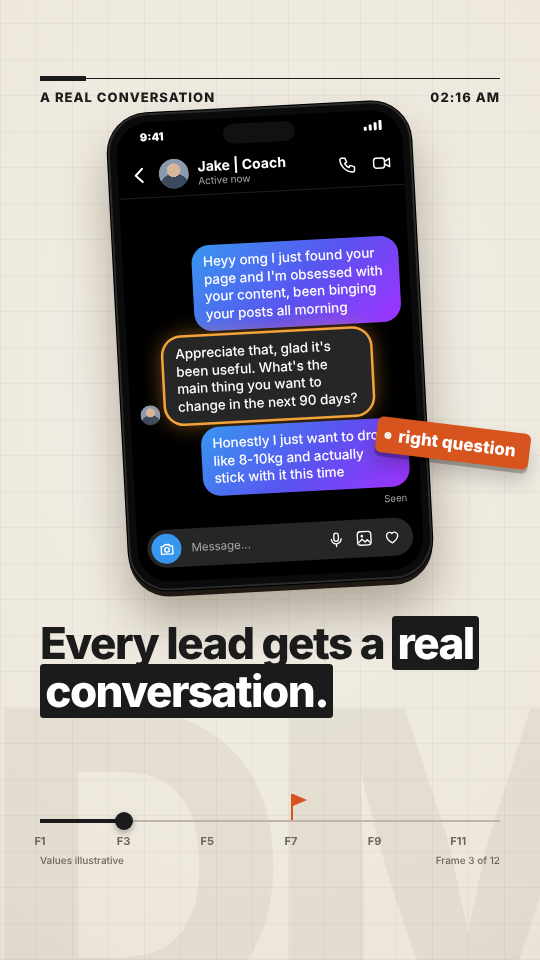
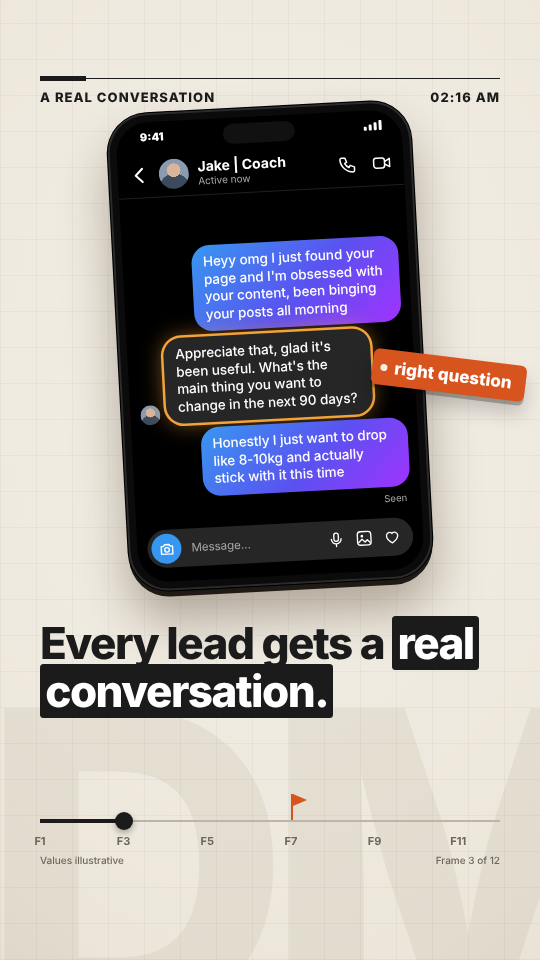
Fix highlighted chat bubble text colour (class collision), move sticker off message
Claude-Session: https://claude.ai/code/session_01LBacd4Ke2z6x4vxDoXBc2Z

Changed region(s): [[0.6815, 0.3438, 1.0, 0.5]]

diff --git a/video-studio/storyboards/paper-data/storyboard.html b/video-studio/storyboards/paper-data/storyboard.html
@@ -79,7 +79,7 @@ mark{background:#1B1B1B;color:#fff;padding:0 .1em;border-radius:.1em}mark.o{back
 .b{max-width:78%;padding:8px 12px;border-radius:18px;font:500 13.5px/1.3 Inter;letter-spacing:-.005em}
 .b.in{background:#262626}
 .b.out{background:linear-gradient(135deg,#3797F0 0%,#5B51F0 55%,#A033FF 100%)}
-.b.hl{box-shadow:0 0 0 2.5px #F2A33A,0 0 22px rgba(242,163,58,.55)}
+.b.hlb{box-shadow:0 0 0 2.5px #F2A33A,0 0 22px rgba(242,163,58,.55)}
 .seen{align-self:flex-end;font:400 9.5px Inter;color:#a8a8a8;margin:1px 4px 0}
 .typing{display:flex;gap:3px;padding:10px 12px}.typing u{width:6px;height:6px;border-radius:50%;background:#8e8e8e}
 .in-bar{margin:6px 10px 14px;height:38px;border-radius:19px;background:#262626;display:flex;align-items:center;gap:10px;padding:0 12px 0 4px;font:400 11.5px Inter;color:#a8a8a8}
@@ -105,9 +105,9 @@ mark{background:#1B1B1B;color:#fff;padding:0 .1em;border-radius:.1em}mark.o{back
 <div class="vis"><div class="ph" style="left:118px;top:-18px;width:304px;height:478px;transform:rotate(-3deg)"><div class="scr">
 <div class="sb"><b>9:41</b><span class="isl"></span><em><s></s><s></s><s></s><s></s></em></div>
 <div class="hd"><svg viewBox="0 0 24 24"><path d="M15 4l-8 8 8 8" fill="none" stroke="#fff" stroke-width="2.4" stroke-linecap="round" stroke-linejoin="round"/></svg><i class="pav"></i><div><b>Jake | Coach</b><small>Active now</small></div><span><svg viewBox="0 0 24 24"><path d="M5 4h4l2 5-2.5 1.5a11 11 0 005 5L15 13l5 2v4a2 2 0 01-2 2A16 16 0 013 6a2 2 0 012-2" fill="none" stroke="#fff" stroke-width="1.8" stroke-linejoin="round"/></svg><svg viewBox="0 0 24 24"><rect x="2.5" y="6" width="13" height="12" rx="3" fill="none" stroke="#fff" stroke-width="1.8"/><path d="M15.5 10.5l6-3.5v10l-6-3.5" fill="none" stroke="#fff" stroke-width="1.8" stroke-linejoin="round"/></svg></span></div>
-<div class="th"><div class="m out" style="--i:0"><div class="b out">Heyy omg I just found your page and I'm obsessed with your content, been binging your posts all morning</div></div><div class="m in" style="--i:1"><i class="av"></i><div class="b in hl">Appreciate that, glad it's been useful. What's the main thing you want to change in the next 90 days?</div></div><div class="m out" style="--i:2"><div class="b out">Honestly I just want to drop like 8-10kg and actually stick with it this time</div></div><div class="seen" style="--i:3">Seen</div></div>
+<div class="th"><div class="m out" style="--i:0"><div class="b out">Heyy omg I just found your page and I'm obsessed with your content, been binging your posts all morning</div></div><div class="m in" style="--i:1"><i class="av"></i><div class="b in hlb">Appreciate that, glad it's been useful. What's the main thing you want to change in the next 90 days?</div></div><div class="m out" style="--i:2"><div class="b out">Honestly I just want to drop like 8-10kg and actually stick with it this time</div></div><div class="seen" style="--i:3">Seen</div></div>
 <div class="in-bar"><i class="cam"><svg viewBox="0 0 24 24"><path d="M4 8h3l2-2.5h6L17 8h3v11H4z" fill="none" stroke="#fff" stroke-width="2" stroke-linejoin="round"/><circle cx="12" cy="13" r="3.2" fill="none" stroke="#fff" stroke-width="2"/></svg></i><span>Message...</span><svg viewBox="0 0 24 24"><rect x="9" y="3" width="6" height="11" rx="3" fill="none" stroke="#fff" stroke-width="1.8"/><path d="M5.5 11a6.5 6.5 0 0013 0M12 17.5V21" fill="none" stroke="#fff" stroke-width="1.8" stroke-linecap="round"/></svg><svg viewBox="0 0 24 24"><rect x="3" y="3" width="18" height="18" rx="4" fill="none" stroke="#fff" stroke-width="1.8"/><circle cx="9" cy="9" r="1.8" fill="#fff"/><path d="M4 18l5-5 4 4 3-3 4 4" fill="none" stroke="#fff" stroke-width="1.8" stroke-linejoin="round"/></svg><svg viewBox="0 0 24 24"><path d="M12 20s-7.5-4.6-7.5-10A4.3 4.3 0 0112 7.4 4.3 4.3 0 0119.5 10c0 5.4-7.5 10-7.5 10z" fill="none" stroke="#fff" stroke-width="1.8" stroke-linejoin="round"/></svg></div>
-</div></div><div class="tag" style="left:376px;top:300px;background:#D8541E;transform:rotate(7deg)">right question</div></div>
+</div></div><div class="tag" style="left:372px;top:232px;background:#D8541E;transform:rotate(7deg)">right question</div></div>
 <div class="cap">Every lead gets a <span class="hl">real conversation.</span></div>
 <div class="scrub"><div class="line"></div><div class="prog" style="width:83.63636363636364px"></div><div class="fl" style="left:290.90909090909093px"></div>
 <div class="knob" style="left:114.63636363636364px"></div><span style="left:40.0px">F1</span><span style="left:123.63636363636364px">F3</span><span style="left:207.27272727272728px">F5</span><span style="left:290.90909090909093px">F7</span><span style="left:374.54545454545456px">F9</span><span style="left:458.1818181818182px">F11</span><small class="l">Values illustrative</small><small class="r">Frame 3 of 12</small></div>
@@ -117,7 +117,7 @@ mark{background:#1B1B1B;color:#fff;padding:0 .1em;border-radius:.1em}mark.o{back
 <div class="vis"><div class="ph" style="left:118px;top:-18px;width:304px;height:478px;transform:rotate(3deg)"><div class="scr">
 <div class="sb"><b>9:41</b><span class="isl"></span><em><s></s><s></s><s></s><s></s></em></div>
 <div class="hd"><svg viewBox="0 0 24 24"><path d="M15 4l-8 8 8 8" fill="none" stroke="#fff" stroke-width="2.4" stroke-linecap="round" stroke-linejoin="round"/></svg><i class="pav"></i><div><b>Jake | Coach</b><small>Active now</small></div><span><svg viewBox="0 0 24 24"><path d="M5 4h4l2 5-2.5 1.5a11 11 0 005 5L15 13l5 2v4a2 2 0 01-2 2A16 16 0 013 6a2 2 0 012-2" fill="none" stroke="#fff" stroke-width="1.8" stroke-linejoin="round"/></svg><svg viewBox="0 0 24 24"><rect x="2.5" y="6" width="13" height="12" rx="3" fill="none" stroke="#fff" stroke-width="1.8"/><path d="M15.5 10.5l6-3.5v10l-6-3.5" fill="none" stroke="#fff" stroke-width="1.8" stroke-linejoin="round"/></svg></span></div>
-<div class="th"><div class="m out" style="--i:0"><div class="b out">Okay real talk - how much does coaching with Jake actually cost, and is there any guarantee?</div></div><div class="m in" style="--i:1"><i class="av sp"></i><div class="b in">It depends on the goal, and Jake covers that on the call so you know exactly what fits you.</div></div><div class="m in" style="--i:2"><i class="av"></i><div class="b in hl">If this is something you're serious about starting now, I can help you find a time to talk</div></div></div>
+<div class="th"><div class="m out" style="--i:0"><div class="b out">Okay real talk - how much does coaching with Jake actually cost, and is there any guarantee?</div></div><div class="m in" style="--i:1"><i class="av sp"></i><div class="b in">It depends on the goal, and Jake covers that on the call so you know exactly what fits you.</div></div><div class="m in" style="--i:2"><i class="av"></i><div class="b in hlb">If this is something you're serious about starting now, I can help you find a time to talk</div></div></div>
 <div class="in-bar"><i class="cam"><svg viewBox="0 0 24 24"><path d="M4 8h3l2-2.5h6L17 8h3v11H4z" fill="none" stroke="#fff" stroke-width="2" stroke-linejoin="round"/><circle cx="12" cy="13" r="3.2" fill="none" stroke="#fff" stroke-width="2"/></svg></i><span>Message...</span><svg viewBox="0 0 24 24"><rect x="9" y="3" width="6" height="11" rx="3" fill="none" stroke="#fff" stroke-width="1.8"/><path d="M5.5 11a6.5 6.5 0 0013 0M12 17.5V21" fill="none" stroke="#fff" stroke-width="1.8" stroke-linecap="round"/></svg><svg viewBox="0 0 24 24"><rect x="3" y="3" width="18" height="18" rx="4" fill="none" stroke="#fff" stroke-width="1.8"/><circle cx="9" cy="9" r="1.8" fill="#fff"/><path d="M4 18l5-5 4 4 3-3 4 4" fill="none" stroke="#fff" stroke-width="1.8" stroke-linejoin="round"/></svg><svg viewBox="0 0 24 24"><path d="M12 20s-7.5-4.6-7.5-10A4.3 4.3 0 0112 7.4 4.3 4.3 0 0119.5 10c0 5.4-7.5 10-7.5 10z" fill="none" stroke="#fff" stroke-width="1.8" stroke-linejoin="round"/></svg></div>
 </div></div><div class="tag" style="left:14px;top:150px;background:#1B1B1B;transform:rotate(-6deg)">no dodge</div><div class="tag" style="left:300px;top:440px;background:#D8541E;transform:rotate(4deg)">straight to the call</div></div>
 <div class="cap">The cost question? <span class="hl">Handled.</span></div>
@@ -136,7 +136,7 @@ mark{background:#1B1B1B;color:#fff;padding:0 .1em;border-radius:.1em}mark.o{back
 <div class="vis"><div class="ph" style="left:118px;top:-18px;width:304px;height:478px;transform:rotate(-2deg)"><div class="scr">
 <div class="sb"><b>9:41</b><span class="isl"></span><em><s></s><s></s><s></s><s></s></em></div>
 <div class="hd"><svg viewBox="0 0 24 24"><path d="M15 4l-8 8 8 8" fill="none" stroke="#fff" stroke-width="2.4" stroke-linecap="round" stroke-linejoin="round"/></svg><i class="pav"></i><div><b>Jake | Coach</b><small>Active now</small></div><span><svg viewBox="0 0 24 24"><path d="M5 4h4l2 5-2.5 1.5a11 11 0 005 5L15 13l5 2v4a2 2 0 01-2 2A16 16 0 013 6a2 2 0 012-2" fill="none" stroke="#fff" stroke-width="1.8" stroke-linejoin="round"/></svg><svg viewBox="0 0 24 24"><rect x="2.5" y="6" width="13" height="12" rx="3" fill="none" stroke="#fff" stroke-width="1.8"/><path d="M15.5 10.5l6-3.5v10l-6-3.5" fill="none" stroke="#fff" stroke-width="1.8" stroke-linejoin="round"/></svg></span></div>
-<div class="th"><div class="m out" style="--i:0"><div class="b out">Okay fair enough, yeah let's find a time, I'm in</div></div><div class="m in" style="--i:1"><i class="av"></i><div class="b in">Quick one, what time zone are you in?</div></div><div class="m out" style="--i:2"><div class="b out">I'm in Switzerland, so Central European time (CET)</div></div><div class="m in" style="--i:3"><i class="av"></i><div class="b in hl">Got it. I've got Monday, October 26 at 1:00 PM, 3:00 PM, or 6:00 PM Swiss time, which works best?</div></div><div class="m out" style="--i:4"><div class="b out">3:00 PM works for me</div></div><div class="seen" style="--i:5">Seen</div></div>
+<div class="th"><div class="m out" style="--i:0"><div class="b out">Okay fair enough, yeah let's find a time, I'm in</div></div><div class="m in" style="--i:1"><i class="av"></i><div class="b in">Quick one, what time zone are you in?</div></div><div class="m out" style="--i:2"><div class="b out">I'm in Switzerland, so Central European time (CET)</div></div><div class="m in" style="--i:3"><i class="av"></i><div class="b in hlb">Got it. I've got Monday, October 26 at 1:00 PM, 3:00 PM, or 6:00 PM Swiss time, which works best?</div></div><div class="m out" style="--i:4"><div class="b out">3:00 PM works for me</div></div><div class="seen" style="--i:5">Seen</div></div>
 <div class="in-bar"><i class="cam"><svg viewBox="0 0 24 24"><path d="M4 8h3l2-2.5h6L17 8h3v11H4z" fill="none" stroke="#fff" stroke-width="2" stroke-linejoin="round"/><circle cx="12" cy="13" r="3.2" fill="none" stroke="#fff" stroke-width="2"/></svg></i><span>Message...</span><svg viewBox="0 0 24 24"><rect x="9" y="3" width="6" height="11" rx="3" fill="none" stroke="#fff" stroke-width="1.8"/><path d="M5.5 11a6.5 6.5 0 0013 0M12 17.5V21" fill="none" stroke="#fff" stroke-width="1.8" stroke-linecap="round"/></svg><svg viewBox="0 0 24 24"><rect x="3" y="3" width="18" height="18" rx="4" fill="none" stroke="#fff" stroke-width="1.8"/><circle cx="9" cy="9" r="1.8" fill="#fff"/><path d="M4 18l5-5 4 4 3-3 4 4" fill="none" stroke="#fff" stroke-width="1.8" stroke-linejoin="round"/></svg><svg viewBox="0 0 24 24"><path d="M12 20s-7.5-4.6-7.5-10A4.3 4.3 0 0112 7.4 4.3 4.3 0 0119.5 10c0 5.4-7.5 10-7.5 10z" fill="none" stroke="#fff" stroke-width="1.8" stroke-linejoin="round"/></svg></div>
 </div></div><div class="flag" style="left:420px;top:330px"></div></div>
 <div class="cap">Three slots. <span class="hl">They pick one.</span></div>
@@ -176,7 +176,7 @@ mark{background:#1B1B1B;color:#fff;padding:0 .1em;border-radius:.1em}mark.o{back
 <div class="vis"><div class="ph" style="left:118px;top:-18px;width:304px;height:478px;transform:rotate(2deg)"><div class="scr">
 <div class="sb"><b>9:41</b><span class="isl"></span><em><s></s><s></s><s></s><s></s></em></div>
 <div class="hd"><svg viewBox="0 0 24 24"><path d="M15 4l-8 8 8 8" fill="none" stroke="#fff" stroke-width="2.4" stroke-linecap="round" stroke-linejoin="round"/></svg><i class="pav"></i><div><b>Your Agency</b><small>Active now</small></div><span><svg viewBox="0 0 24 24"><path d="M5 4h4l2 5-2.5 1.5a11 11 0 005 5L15 13l5 2v4a2 2 0 01-2 2A16 16 0 013 6a2 2 0 012-2" fill="none" stroke="#fff" stroke-width="1.8" stroke-linejoin="round"/></svg><svg viewBox="0 0 24 24"><rect x="2.5" y="6" width="13" height="12" rx="3" fill="none" stroke="#fff" stroke-width="1.8"/><path d="M15.5 10.5l6-3.5v10l-6-3.5" fill="none" stroke="#fff" stroke-width="1.8" stroke-linejoin="round"/></svg></span></div>
-<div class="th"><div class="m in" style="--i:0"><i class="av sp"></i><div class="b in">Hey! Saw your comment 🙌</div></div><div class="m in" style="--i:1"><i class="av"></i><div class="b in">What's your business, and roughly how many DMs do you get a week?</div></div><div class="m out" style="--i:2"><div class="b out">Fitness coaching, around 40-50 a week</div></div><div class="m in" style="--i:3"><i class="av"></i><div class="b in hl">Got it. Want me to show you how we'd turn those into booked calls?</div></div><div class="m in" style="--i:4"><i class="av"></i><div class="b in typing"><u></u><u></u><u></u></div></div></div>
+<div class="th"><div class="m in" style="--i:0"><i class="av sp"></i><div class="b in">Hey! Saw your comment 🙌</div></div><div class="m in" style="--i:1"><i class="av"></i><div class="b in">What's your business, and roughly how many DMs do you get a week?</div></div><div class="m out" style="--i:2"><div class="b out">Fitness coaching, around 40-50 a week</div></div><div class="m in" style="--i:3"><i class="av"></i><div class="b in hlb">Got it. Want me to show you how we'd turn those into booked calls?</div></div><div class="m in" style="--i:4"><i class="av"></i><div class="b in typing"><u></u><u></u><u></u></div></div></div>
 <div class="in-bar"><i class="cam"><svg viewBox="0 0 24 24"><path d="M4 8h3l2-2.5h6L17 8h3v11H4z" fill="none" stroke="#fff" stroke-width="2" stroke-linejoin="round"/><circle cx="12" cy="13" r="3.2" fill="none" stroke="#fff" stroke-width="2"/></svg></i><span>Message...</span><svg viewBox="0 0 24 24"><rect x="9" y="3" width="6" height="11" rx="3" fill="none" stroke="#fff" stroke-width="1.8"/><path d="M5.5 11a6.5 6.5 0 0013 0M12 17.5V21" fill="none" stroke="#fff" stroke-width="1.8" stroke-linecap="round"/></svg><svg viewBox="0 0 24 24"><rect x="3" y="3" width="18" height="18" rx="4" fill="none" stroke="#fff" stroke-width="1.8"/><circle cx="9" cy="9" r="1.8" fill="#fff"/><path d="M4 18l5-5 4 4 3-3 4 4" fill="none" stroke="#fff" stroke-width="1.8" stroke-linejoin="round"/></svg><svg viewBox="0 0 24 24"><path d="M12 20s-7.5-4.6-7.5-10A4.3 4.3 0 0112 7.4 4.3 4.3 0 0119.5 10c0 5.4-7.5 10-7.5 10z" fill="none" stroke="#fff" stroke-width="1.8" stroke-linejoin="round"/></svg></div>
 </div></div><div class="badge" style="left:396px;top:-22px">1</div></div>
 <div class="cap">and we'll <span class="hlo">DM you.</span></div>

diff --git a/video-studio/storyboards/paper-data/build.py b/video-studio/storyboards/paper-data/build.py
@@ -43,7 +43,7 @@ def phone(msgs, x=118, y=-18, rot=-3, w=304, h=478, typing=False, seen=True, hl=
     for i, (side, txt) in enumerate(msgs):
         last_in = side == "in" and (i + 1 == len(msgs) or msgs[i + 1][0] != "in")
         av = '<i class="av"></i>' if last_in else '<i class="av sp"></i>' if side == "in" else ""
-        cls = "b " + side + (" hl" if hl == i else "")
+        cls = "b " + side + (" hlb" if hl == i else "")
         rows.append(f'<div class="m {side}" style="--i:{i}">{av}<div class="{cls}">{txt}</div></div>')
     if seen and msgs and msgs[-1][0] == "out":
         rows.append(f'<div class="seen" style="--i:{len(msgs)}">Seen</div>')
@@ -84,7 +84,7 @@ frames.append(dict(label="A real conversation", right="02:16 AM", num="DM",
                    vis=phone([("out", "Heyy omg I just found your page and I'm obsessed with your content, been binging your posts all morning"),
                               ("in", "Appreciate that, glad it's been useful. What's the main thing you want to change in the next 90 days?"),
                               ("out", "Honestly I just want to drop like 8-10kg and actually stick with it this time")], hl=1)
-                       + tag("right question", O, 376, 300, 7),
+                       + tag("right question", O, 372, 232, 7),
                    cap='Every lead gets a <span class="hl">real conversation.</span>'))
 
 # 4 — the cost question, no prices
@@ -171,7 +171,7 @@ PHONE_CSS = """
 .b{max-width:78%;padding:8px 12px;border-radius:18px;font:500 13.5px/1.3 Inter;letter-spacing:-.005em}
 .b.in{background:#262626}
 .b.out{background:linear-gradient(135deg,#3797F0 0%,#5B51F0 55%,#A033FF 100%)}
-.b.hl{box-shadow:0 0 0 2.5px #F2A33A,0 0 22px rgba(242,163,58,.55)}
+.b.hlb{box-shadow:0 0 0 2.5px #F2A33A,0 0 22px rgba(242,163,58,.55)}
 .seen{align-self:flex-end;font:400 9.5px Inter;color:#a8a8a8;margin:1px 4px 0}
 .typing{display:flex;gap:3px;padding:10px 12px}.typing u{width:6px;height:6px;border-radius:50%;background:#8e8e8e}
 .in-bar{margin:6px 10px 14px;height:38px;border-radius:19px;background:#262626;display:flex;align-items:center;gap:10px;padding:0 12px 0 4px;font:400 11.5px Inter;color:#a8a8a8}

diff --git a/video-studio/storyboards/paper-data/video.py b/video-studio/storyboards/paper-data/video.py
@@ -112,7 +112,7 @@ header{animation:fadeIn .5s ease calc(0ms - var(--pre)) both}
 @keyframes bob{from{rotate:-.9deg}to{rotate:.9deg}}
 @keyframes wig{from{rotate:-3deg}to{rotate:3deg}}
 @keyframes beat{0%,100%{scale:1}15%{scale:1.14}30%{scale:1}}
-.b.hl{animation:glow 1s ease-in-out calc(700ms + var(--i,0)*380ms - var(--pre)) infinite alternate none}
+.b.hlb{animation:glow 1s ease-in-out calc(700ms + var(--i,0)*380ms - var(--pre)) infinite alternate none}
 @keyframes glow{to{box-shadow:0 0 0 3.5px #F2A33A,0 0 34px rgba(242,163,58,.9)}}
 .num{animation:numIn .9s cubic-bezier(.2,.8,.2,1) calc(0ms - var(--pre)) both,drift 4s linear calc(900ms - var(--pre)) infinite alternate none}
 @keyframes drift{to{translate:-26px 0}}
@@ -127,8 +127,8 @@ header{animation:fadeIn .5s ease calc(0ms - var(--pre)) both}
 
 .w{display:inline-block;animation:wordIn .26s cubic-bezier(.2,.9,.3,1.3) var(--wd) both}
 @keyframes wordIn{from{opacity:0;translate:0 18px;scale:.6}}
-.hl,.hlo{background:linear-gradient(var(--hb),var(--hb)) no-repeat 0 0/0% 100%;color:#1B1B1B;animation:wipe .3s ease var(--wd) both}
-.hl{--hb:#1B1B1B}.hlo{--hb:#D8541E}
+.cap .hl,.cap .hlo{background:linear-gradient(var(--hb),var(--hb)) no-repeat 0 0/0% 100%;color:#1B1B1B;animation:wipe .3s ease var(--wd) both}
+.cap .hl{--hb:#1B1B1B}.cap .hlo{--hb:#D8541E}
 @keyframes wipe{to{background-size:100% 100%;color:#fff}}
 .scrub .knob{animation:slideK .5s cubic-bezier(.3,.9,.3,1) both}
 @keyframes slideK{from{left:var(--from)}}
